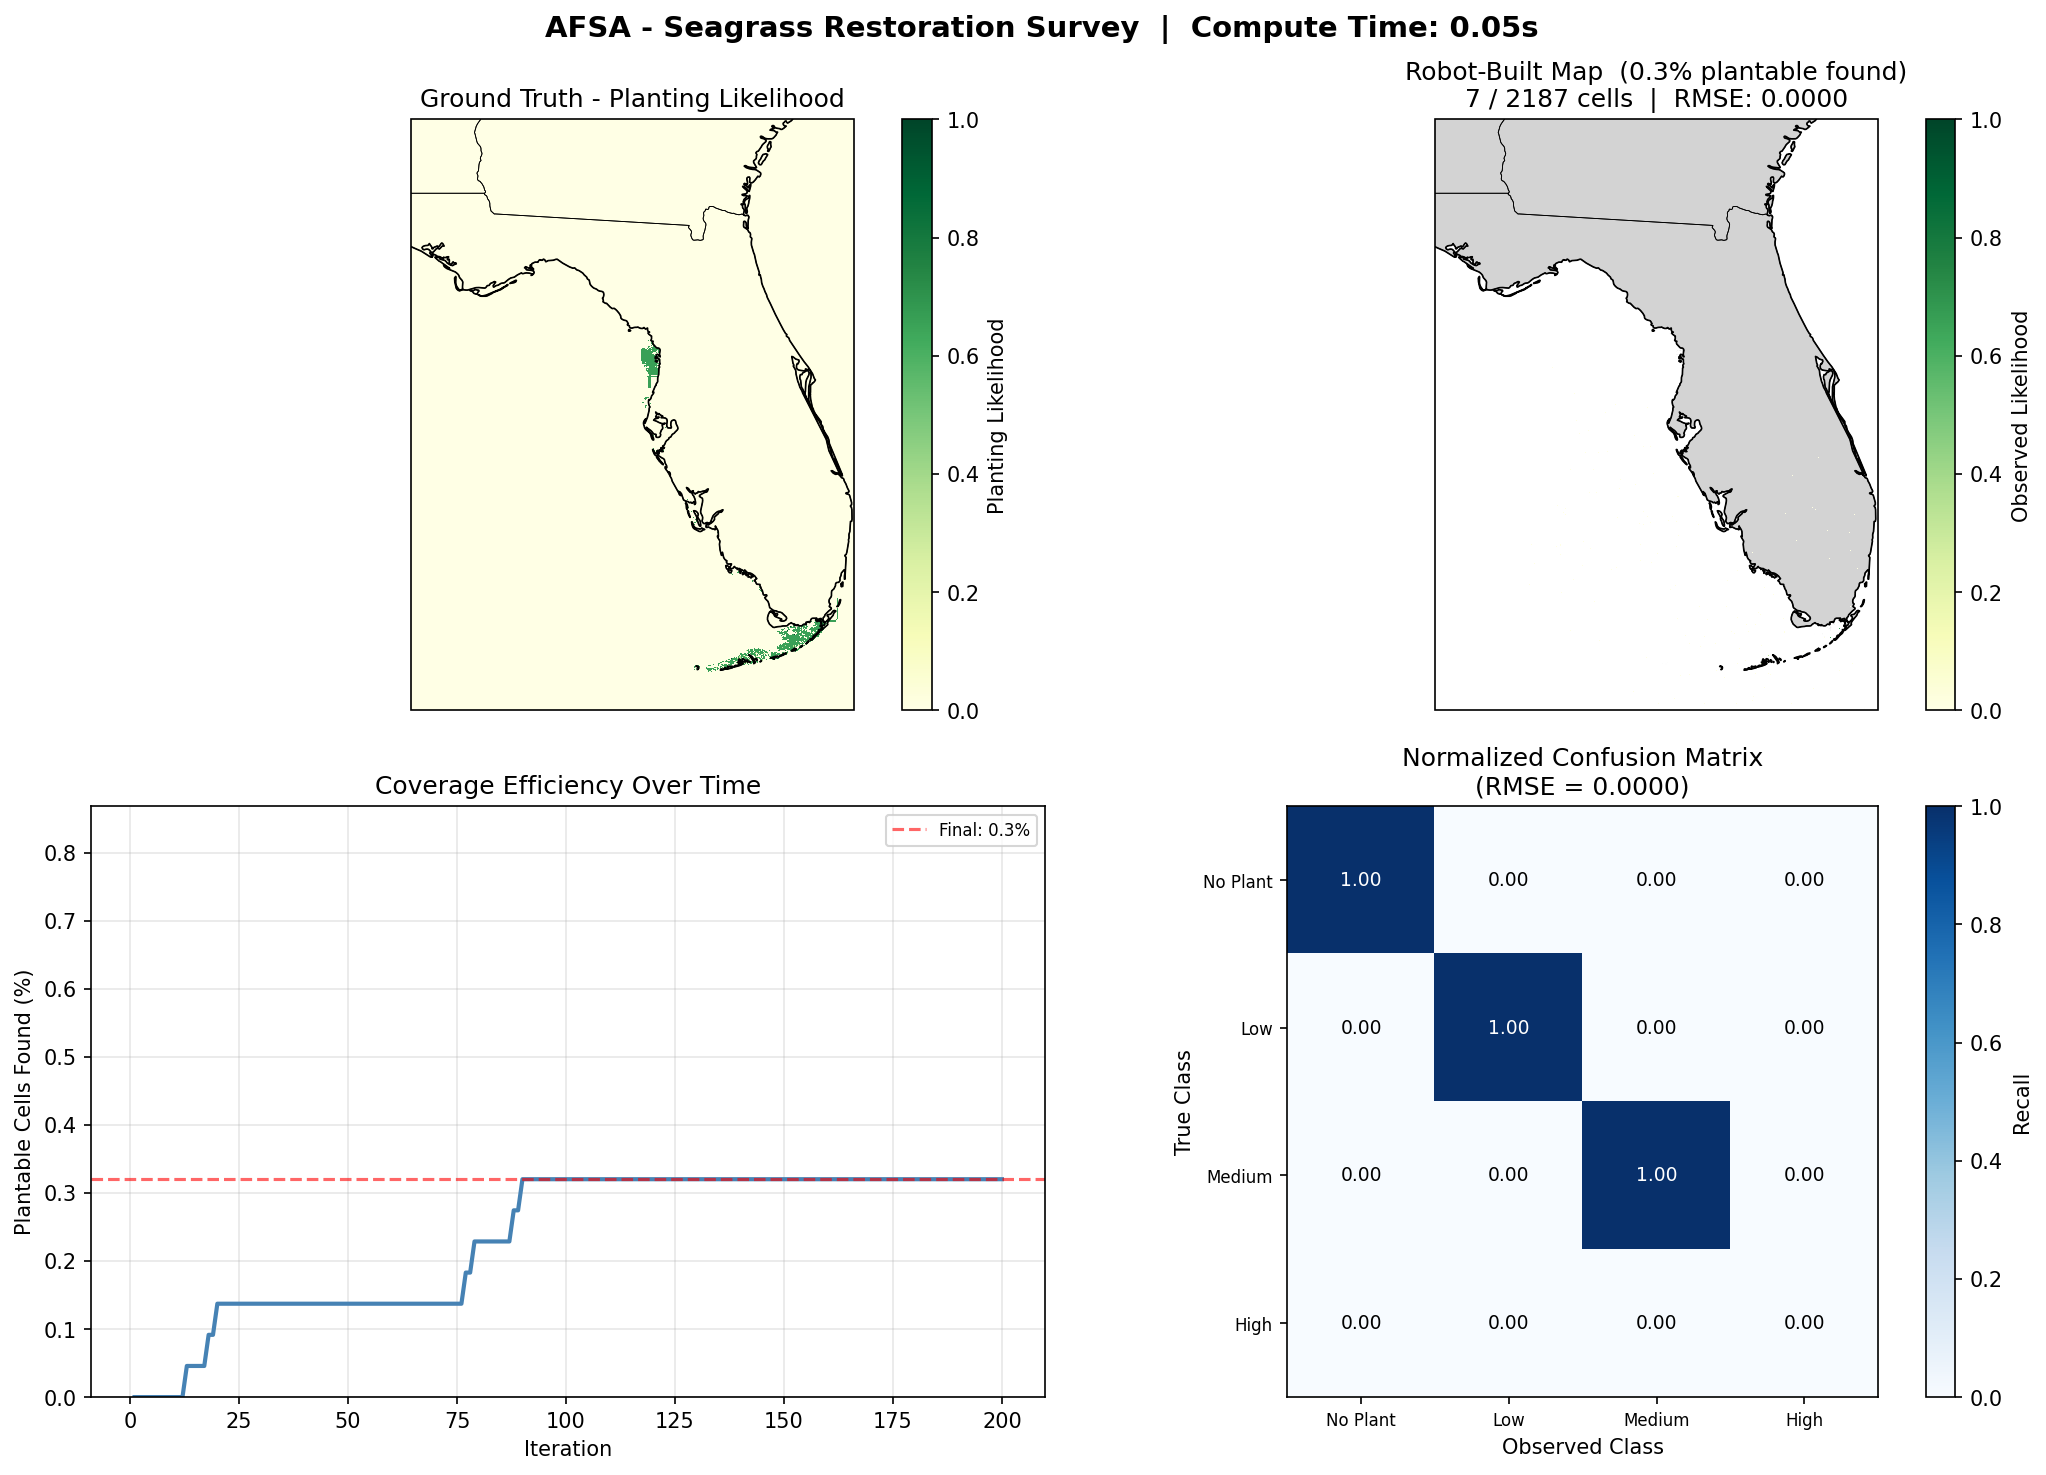
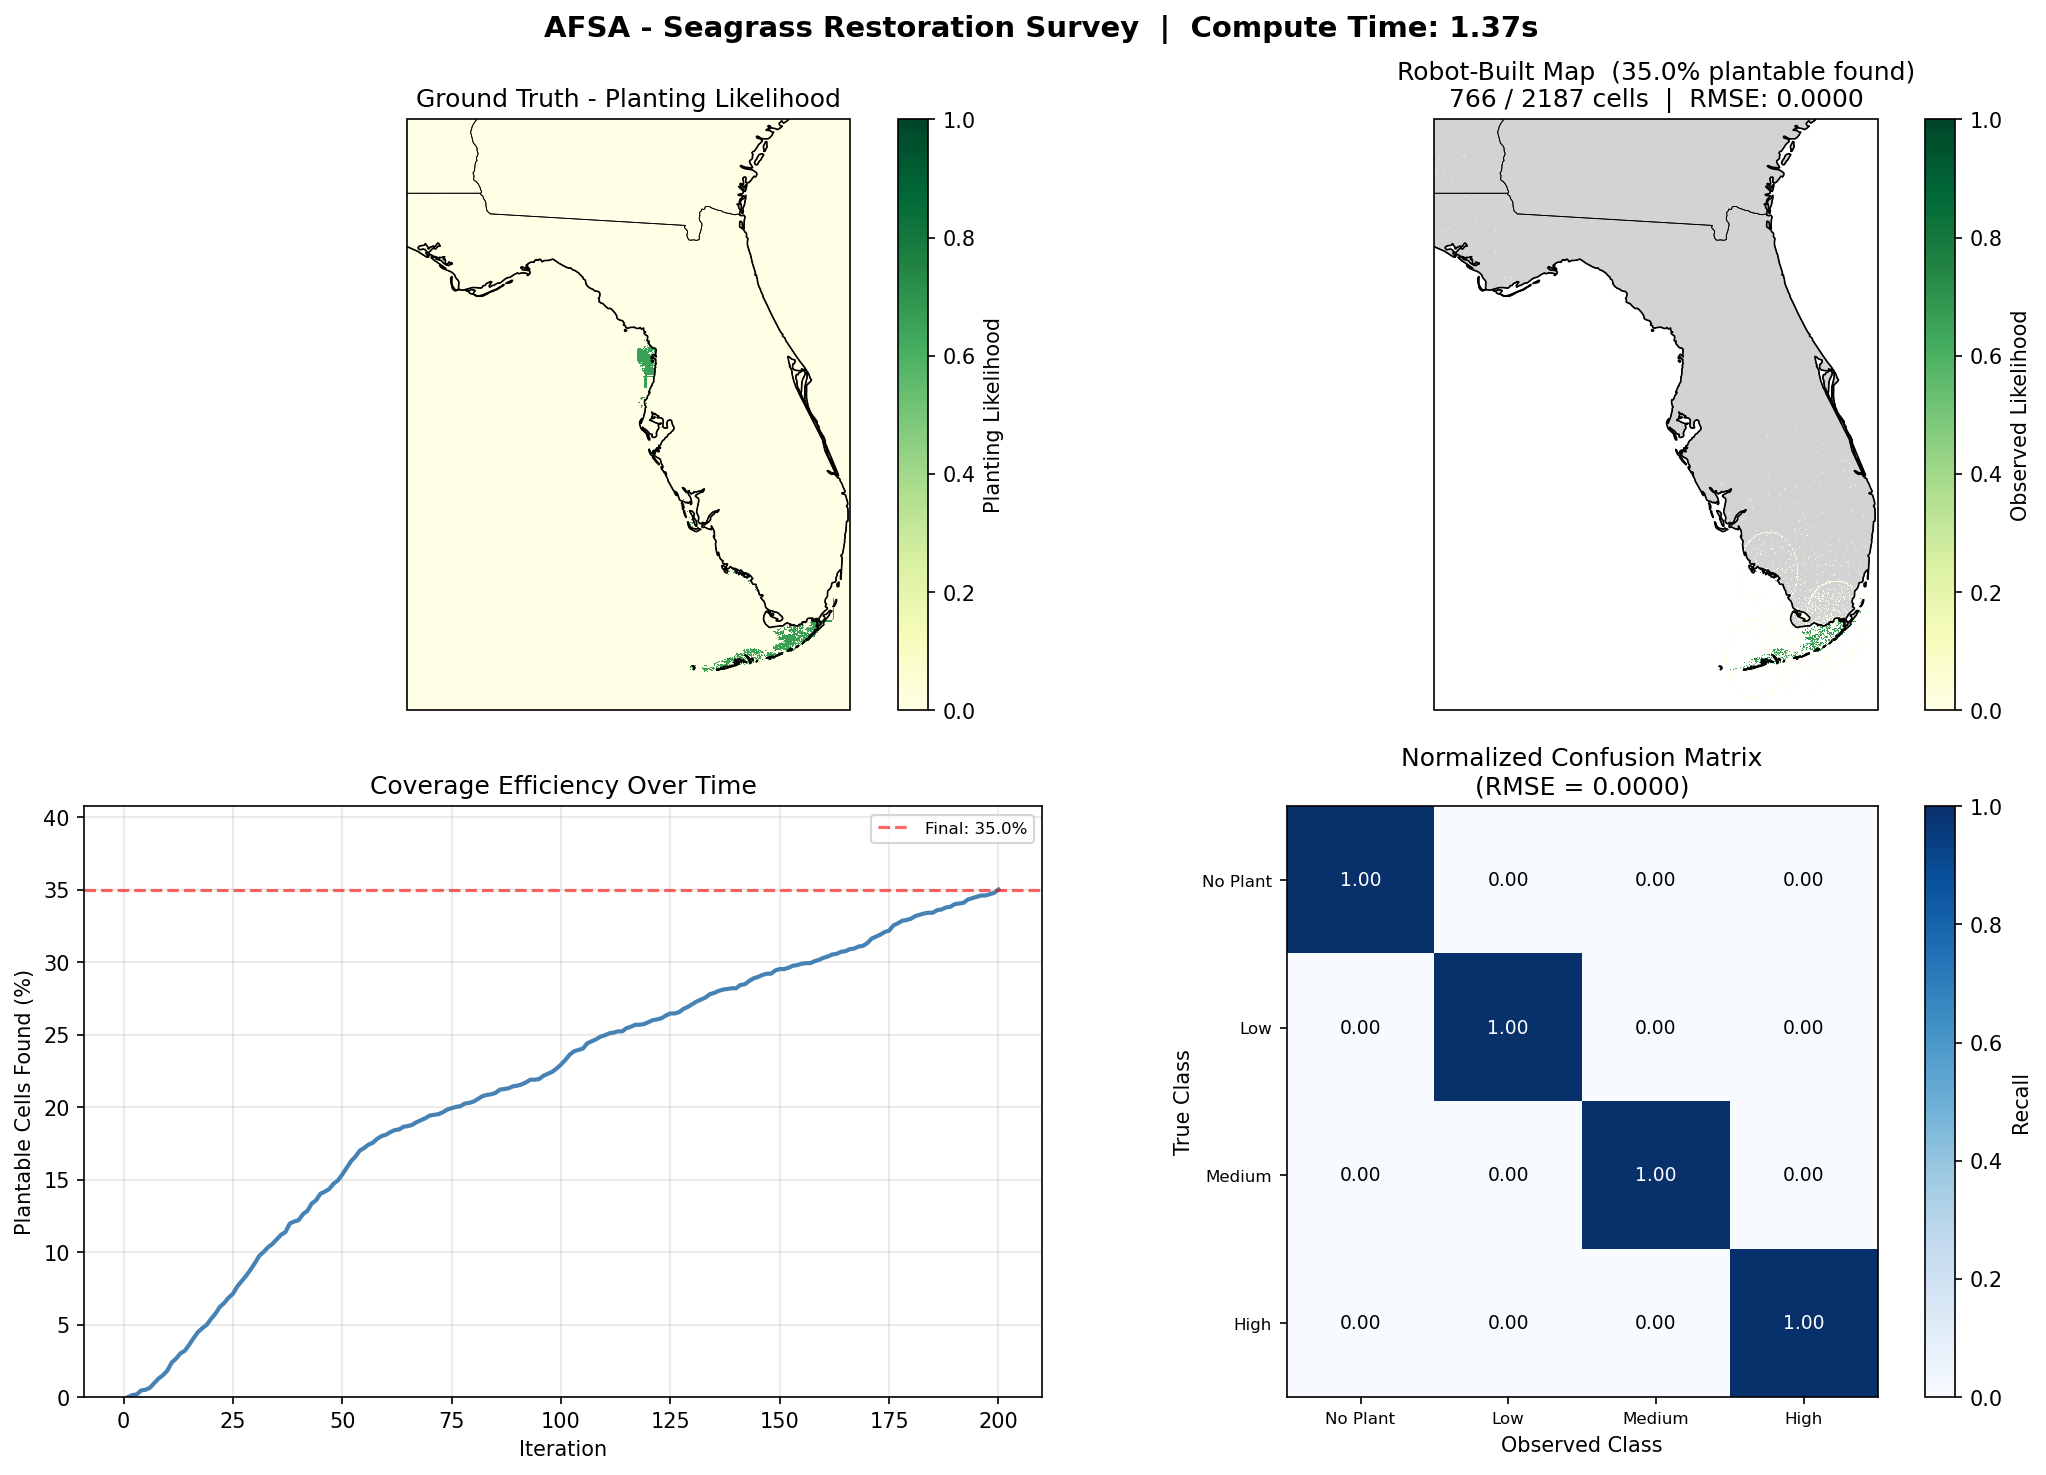
deleted duplicates in readme

diff --git a/afsa/afsa.py b/afsa/afsa.py
@@ -196,7 +196,7 @@ if __name__ == "__main__":
     start_col = float(np.mean(viable[1])) if len(viable[0]) > 0 else env.cols / 2
 
     # change parameters here to see convergence...
-    afsa = AFSA(env, n_fish=1, visual=75.0, step=40.0,
+    afsa = AFSA(env, n_fish=50, visual=75.0, step=40.0,
             try_number=4, crowd_factor=0.3, max_iter=200,
             start_row=start_row, start_col=start_col, rng_seed=0)
 
